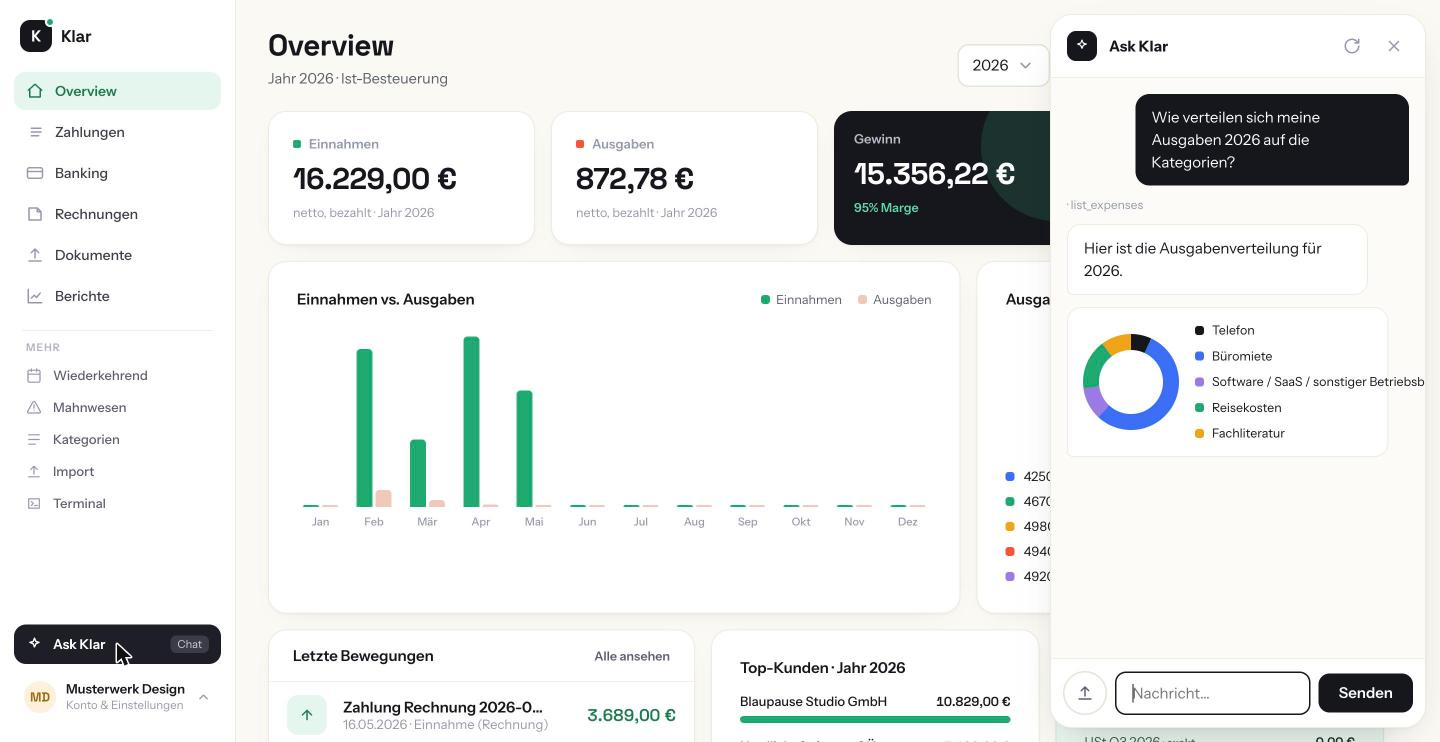
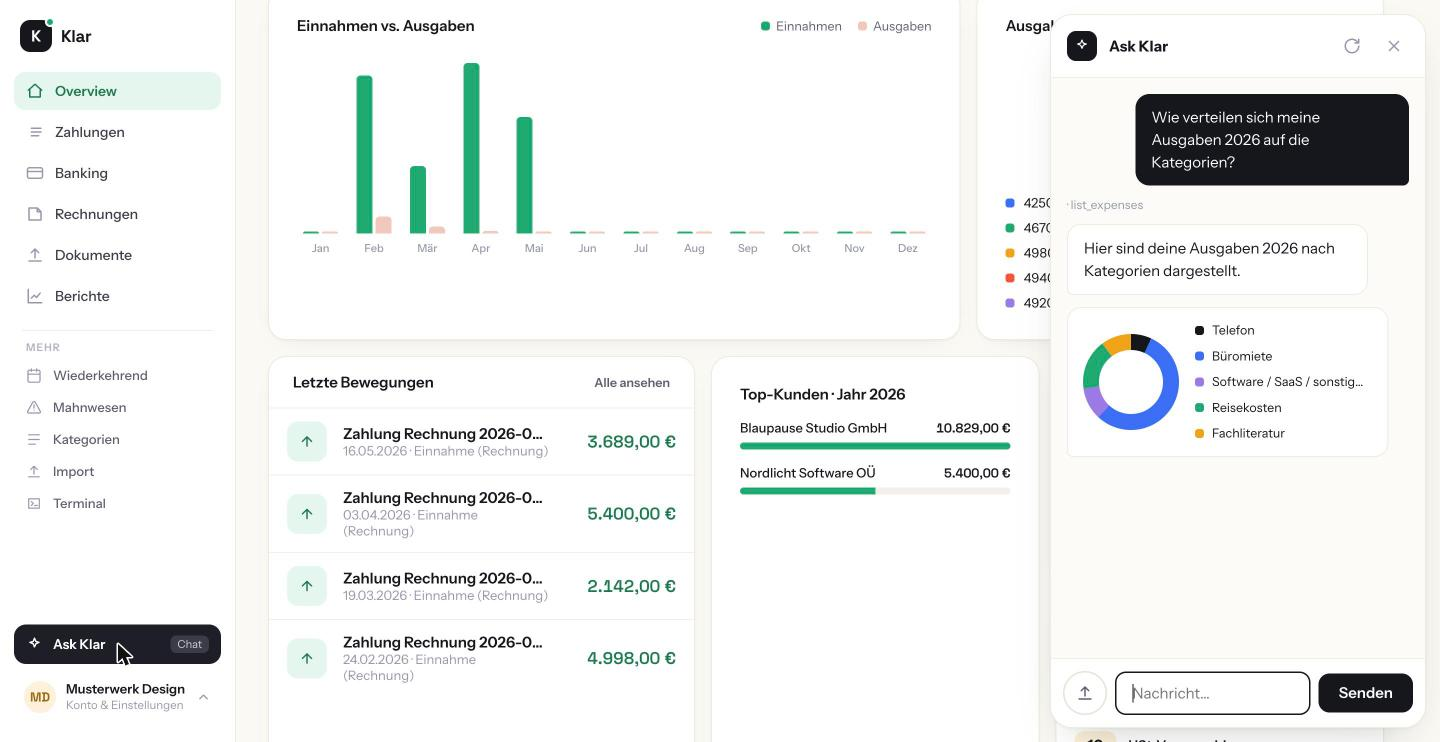
Chat-Karten: Text lief aus dem Widget heraus
Die Legende des Ringdiagramms hatte zwar text-overflow:ellipsis, aber den
Eltern-Containern fehlte min-width:0. In Flexbox verhindert der Vorgabewert
min-width:auto, dass ein Element unter seine Inhaltsbreite schrumpft – die
Kuerzung griff deshalb nie, und lange Kontobezeichnungen wie
"Software / SaaS / sonstiger Betriebsbedarf" ragten aus der Karte.

Dieselbe Falle steckte im Balkendiagramm (Beschriftungen) und in der
Beleg-Karte. Alle drei korrigiert, Betraege in der Legende zusaetzlich
gegen Schrumpfen geschuetzt.

Screenshot entsprechend erneuert.

diff --git a/templates/base_klar.html b/templates/base_klar.html
@@ -324,18 +324,18 @@
         } else if(b.type==='chart_bar'){
           const bars=b.bars||[]; const mx=Math.max(1,...bars.map(x=>+x.value||0));
           let inner=(b.subtitle?'<p style="font-size:13.5px;margin:0 0 10px">'+esc(b.subtitle)+'</p>':'')+'<div style="display:flex;align-items:flex-end;gap:8px;height:120px;padding-top:6px">';
-          for(const x of bars){ inner+='<div style="flex:1;display:flex;flex-direction:column;align-items:center;gap:6px;height:100%;justify-content:flex-end">'
+          for(const x of bars){ inner+='<div style="flex:1;min-width:0;display:flex;flex-direction:column;align-items:center;gap:6px;height:100%;justify-content:flex-end">'
             +'<span class="num" style="font-size:10.5px;color:var(--ink-3)">'+esc(x.amount||'')+'</span>'
             +'<div style="width:100%;background:var(--accent);border-radius:5px 5px 0 0;height:'+Math.round((+x.value||0)/mx*100)+'%;min-height:2px"></div>'
-            +'<span style="font-size:11px;color:var(--ink-3);font-weight:500">'+esc(x.label||'')+'</span></div>'; }
+            +'<span style="font-size:11px;color:var(--ink-3);font-weight:500;max-width:100%;white-space:nowrap;overflow:hidden;text-overflow:ellipsis">'+esc(x.label||'')+'</span></div>'; }
           inner+='</div>'; card.innerHTML=inner;
         } else if(b.type==='chart_donut'){
           const segs=b.segments||[]; const tot=segs.reduce((a,s)=>a+(+s.value||0),0)||1; let acc=0, stops=[];
           segs.forEach((s,i)=>{ const c=PALETTE[i%PALETTE.length]; const f=(+s.value||0)/tot; stops.push(c+' '+(acc*100).toFixed(2)+'% '+((acc+f)*100).toFixed(2)+'%'); acc+=f; });
-          let leg=''; segs.forEach((s,i)=>{ leg+='<div style="display:flex;align-items:center;gap:8px"><span style="width:9px;height:9px;border-radius:3px;background:'+PALETTE[i%PALETTE.length]+';flex-shrink:0"></span><span style="flex:1;font-size:12.5px;min-width:0;white-space:nowrap;overflow:hidden;text-overflow:ellipsis">'+esc(s.name||'')+'</span><span class="num" style="font-size:12px;color:var(--ink-2)">'+esc(s.amount||'')+'</span></div>'; });
+          let leg=''; segs.forEach((s,i)=>{ leg+='<div style="display:flex;align-items:center;gap:8px;min-width:0"><span style="width:9px;height:9px;border-radius:3px;background:'+PALETTE[i%PALETTE.length]+';flex-shrink:0"></span><span style="flex:1;font-size:12.5px;min-width:0;white-space:nowrap;overflow:hidden;text-overflow:ellipsis">'+esc(s.name||'')+'</span><span class="num" style="font-size:12px;color:var(--ink-2);flex-shrink:0">'+esc(s.amount||'')+'</span></div>'; });
           card.innerHTML=(b.subtitle?'<p style="font-size:13.5px;margin:0 0 12px">'+esc(b.subtitle)+'</p>':'')
             +'<div style="display:flex;align-items:center;gap:16px"><div style="width:96px;height:96px;border-radius:50%;flex-shrink:0;background:conic-gradient('+stops.join(',')+');position:relative"><div style="position:absolute;inset:16px;background:var(--surface);border-radius:50%;display:flex;align-items:center;justify-content:center"><span class="num" style="font-size:12.5px;font-weight:700">'+money(b.total)+'</span></div></div>'
-            +'<div style="flex:1;display:flex;flex-direction:column;gap:7px">'+leg+'</div></div>';
+            +'<div style="flex:1;min-width:0;display:flex;flex-direction:column;gap:7px">'+leg+'</div></div>';
         } else if(b.type==='list'){
           let inner=(b.subtitle?'<p style="font-size:13.5px;margin:0 0 10px">'+esc(b.subtitle)+'</p>':(b.title?'<p style="font-size:13.5px;font-weight:600;margin:0 0 8px">'+esc(b.title)+'</p>':''));
           for(const it of (b.items||[])){ inner+='<div style="display:flex;align-items:center;gap:11px;padding:9px 0;border-top:1px solid var(--line-3)">'
@@ -502,7 +502,7 @@
           let fields=''; for(const f of (b.fields||[])){ fields+='<div style="display:flex;justify-content:space-between;font-size:12.5px"><span style="color:var(--ink-3)">'+esc(f.label||'')+'</span><span class="num" style="font-weight:600">'+esc(f.value||'')+'</span></div>'; }
           const thumb='<div style="width:64px;height:82px;border-radius:8px;border:1px solid var(--line-2);background:var(--wash);flex-shrink:0;display:flex;flex-direction:column;gap:4px;padding:9px"><div style="height:6px;width:70%;background:var(--field-border);border-radius:2px"></div><div style="height:5px;width:90%;background:var(--line-2);border-radius:2px"></div><div style="height:5px;width:60%;background:var(--line-2);border-radius:2px"></div><div style="margin-top:auto;height:9px;width:50%;background:var(--field-border);border-radius:2px"></div></div>';
           let inner=(b.subtitle?'<p style="font-size:14px;line-height:1.5;margin:0 0 12px">'+esc(b.subtitle)+'</p>':(b.title?'<p style="font-size:14px;line-height:1.5;margin:0 0 12px">'+esc(b.title)+'</p>':''))
-            +'<div style="display:flex;gap:12px"><div>'+thumb+'</div><div style="flex:1;display:flex;flex-direction:column;gap:7px">'+fields+'</div></div>'
+            +'<div style="display:flex;gap:12px"><div>'+thumb+'</div><div style="flex:1;min-width:0;display:flex;flex-direction:column;gap:7px">'+fields+'</div></div>'
             +'<div class="doc-details" style="display:none;border-top:1px solid var(--line-3);margin-top:11px;padding-top:11px;flex-direction:column;gap:7px">'+
               (b.details||[]).map(f=>'<div style="display:flex;justify-content:space-between;font-size:12.5px"><span style="color:var(--ink-3)">'+esc(f.label||'')+'</span><span class="num">'+esc(f.value||'')+'</span></div>').join('')+'</div>'
             +'<div class="doc-row" style="display:flex;gap:8px;margin-top:13px"><button class="btn btn--primary btn--sm doc-book" style="flex:1">'+esc(b.confirm_label||'Zuordnen & buchen')+'</button>'
